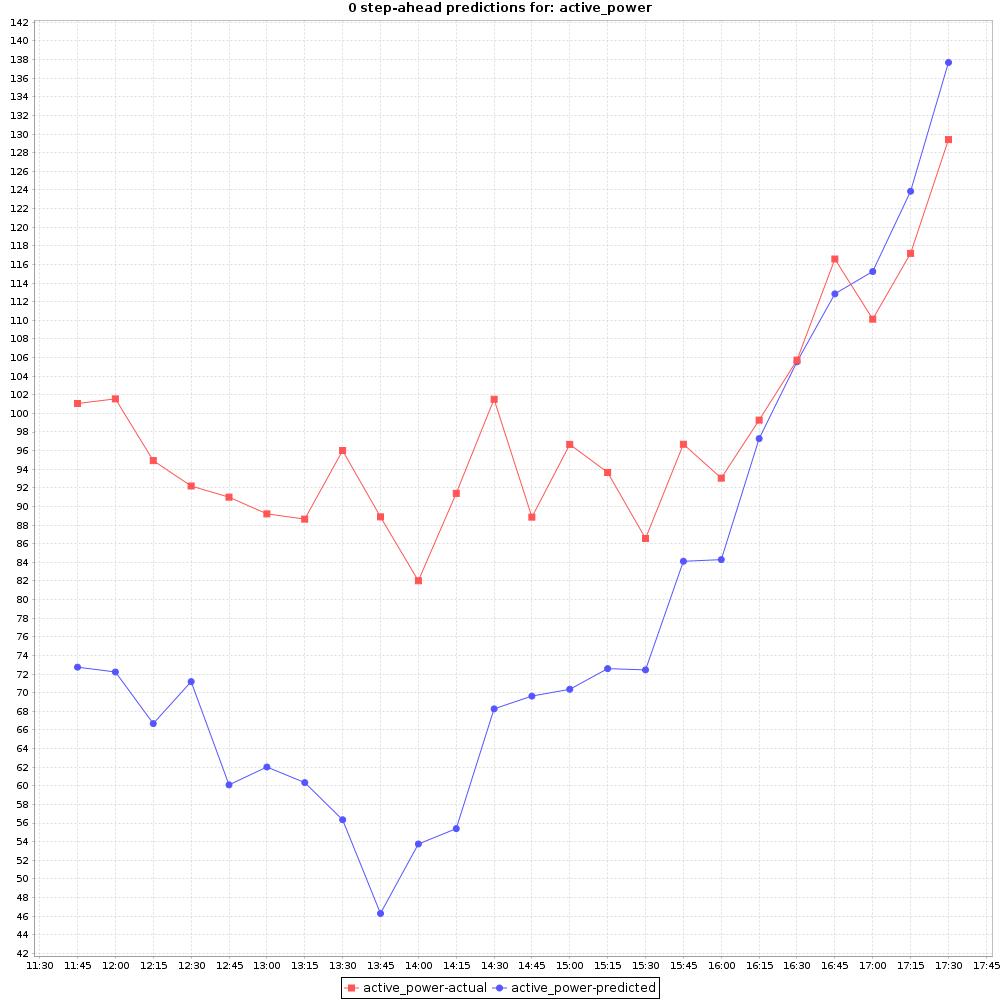
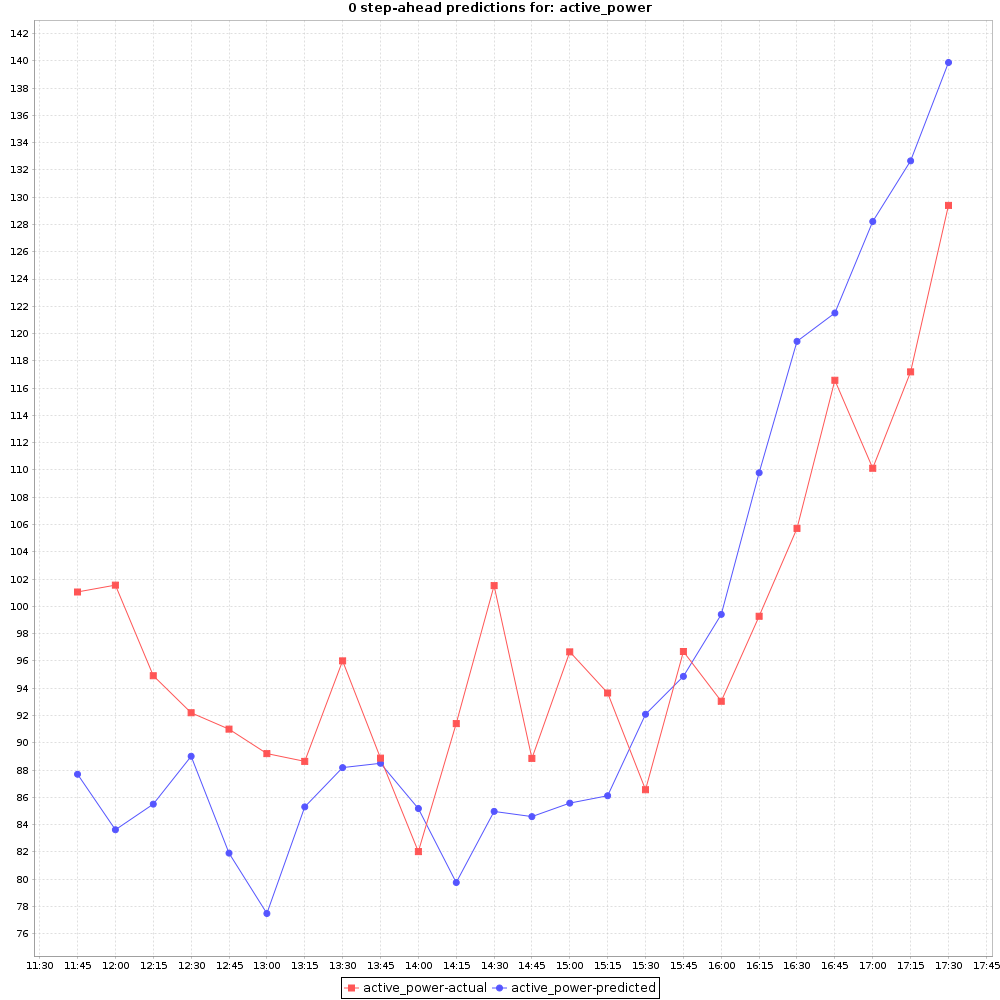
don't know why this doesn't work

diff --git a/src/src/RAThread.java b/src/src/RAThread.java
@@ -1,5 +1,6 @@
 package src;
 
+import weka.classifiers.Classifier;
 import weka.core.Instances;
 
 import java.util.BitSet;
@@ -19,12 +20,18 @@ public class RAThread extends Thread{
     private String subset_string;
     private RAContainer raContainer;
     public RAThread(String threadName, RAContainer raContainer, int m_maxEvals,
-                    SubsetHandler subsetHandler, TSWrapper tsWrapper){
+                    SubsetHandler subsetHandler, Classifier classifier, Instances data){
         this.threadName = threadName;
         this.raContainer = raContainer;
         this.m_maxEvals = m_maxEvals;
         this.subsetHandler = subsetHandler;
-        this.tsWrapper = tsWrapper;
+        this.tsWrapper = new TSWrapper();
+        this.tsWrapper.setM_BaseClassifier(classifier);
+        try {
+            this.tsWrapper.buildEvaluator(data);
+        }catch (Exception e){
+            e.printStackTrace();
+        }
 
     }
     public void run(){
@@ -38,9 +45,8 @@ public class RAThread extends Thread{
                     incrementEvals();
                     System.out.println("New merit: " + s_new_merit);
                     raContainer.putInExistingSubsets(subset_string, s_new_merit);
-                    if (decisionFunction(raContainer.getBest_merit() - s_new_merit)) {
+                    if (decisionFunction(raContainer.getBest_merit() - s_new_merit))
                         raContainer.changeBestGroup(s_new, s_new_merit);
-                    }
                 }
             }
         }catch (Exception e){

diff --git a/src/src/RandomSearch.java b/src/src/RandomSearch.java
@@ -239,7 +239,7 @@ public class RandomSearch{
         threadNumber = 2;
         int threadLagInterval = m_maxEvals/threadNumber;
         for (int i = 0; i < threadNumber; i++)
-            threadList.add(i, new RAThread("Thread " + i, raContainer, m_maxEvals, subsetHandler, tsWrapper));
+            threadList.add(i, new RAThread("Thread " + i, raContainer, m_maxEvals, subsetHandler, linearRegression, data));
         for (int i = 0; i < threadList.size(); i++)
             threadList.get(i).start();
         for (int i = 0; i < threadList.size(); i++)
